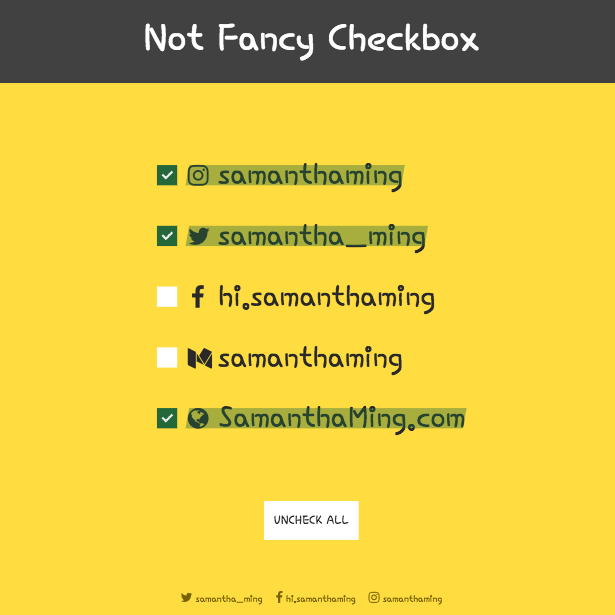
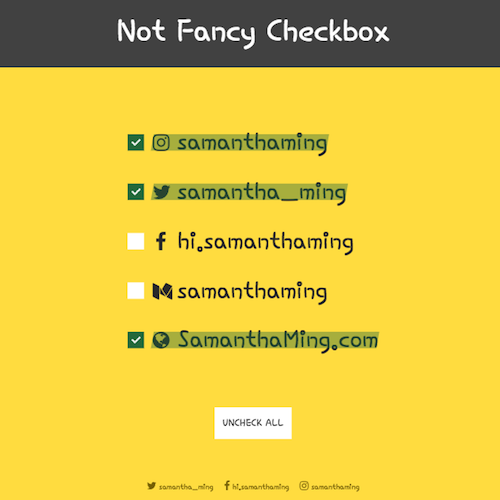
Edit readme and shrink image

diff --git a/README.md b/README.md
@@ -51,7 +51,7 @@ Let's look at the basic HTML. Nothing too fancy here, we're just using the input
   </label>
 ```
 
-# 2. Handle the Vue method and Update data
+# 2. Implement Vue logic
 
 Now let's write the logic when user clicks the check box. All that method is doing is updating that specific item's active key to either true or false.
 
